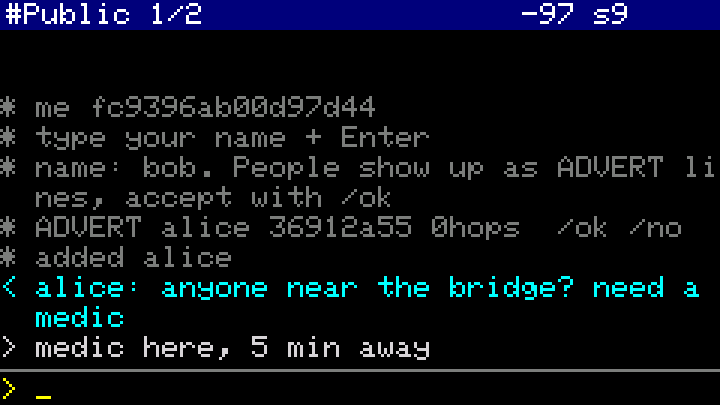
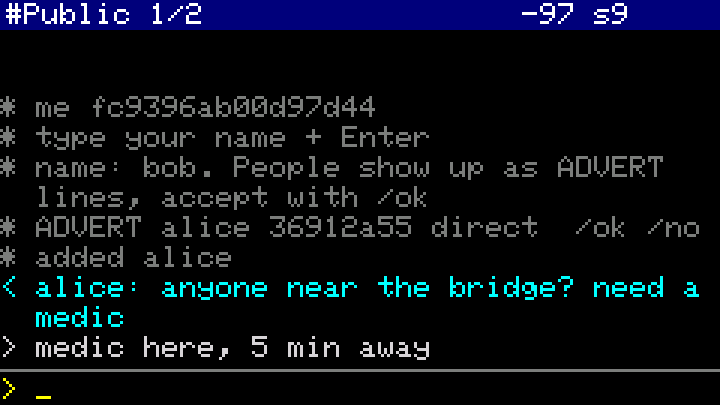
README and screen review fixes
- header/advert routes read "direct" / "N hops" (was "0h 50s", easy to read as a duration)
- word-wrap at spaces; only whole messages at the top of the chat view
- voice fails instead of flooding when a route is lost mid-message
- sim: RSSI reads 0 until a packet is heard, like the radio
- README: drop the Meshtastic section; range now led by repeaters and network
  state; status note (not yet run on hardware); fix SF10 airtime (4x) and probe wording; /help

diff --git a/src/main.cpp b/src/main.cpp
@@ -101,6 +101,10 @@ uint32_t idOf(const ContactInfo &c) {
   return v;
 }
 bool isChan(uint32_t id) { return (id & CHAN) == CHAN; }
+String hops(uint8_t path_len) {
+  int n = path_len & 63;
+  return n == 0 ? String("direct") : String(n) + (n == 1 ? " hop" : " hops");
+}
 String hex(const uint8_t *b, int n) {
   String s;
   char h[3];
@@ -189,7 +193,7 @@ struct Node : BaseChatMesh {
       if (p.id.matches(c.id)) return;
     if (pending.size() >= 16) pending.erase(pending.begin());
     pending.push_back(c);
-    sys("ADVERT " + String(c.name) + " " + hex(c.id.pub_key, 4) + " " + String(path_len & 63) + "hops  /ok /no");
+    sys("ADVERT " + String(c.name) + " " + hex(c.id.pub_key, 4) + " " + hops(path_len) + "  /ok /no");
   }
 
   void onContactPathUpdated(const ContactInfo &) override { contactsDirty = true; }
@@ -403,6 +407,10 @@ void sendText(const String &s) {
 }
 
 void pumpVoice(Out &o, ContactInfo &c) {
+  if (c.out_path_len == OUT_PATH_UNKNOWN) {  // route lost: fail rather than flood the mesh with voice
+    o.next = 32;
+    return;
+  }
   if (o.next >= 32 || node.outbound()) return;  // round sent, or pace: one request queued at a time
   uint32_t rest = o.need >> o.next << o.next;
   if (!rest) {
@@ -683,10 +691,9 @@ void draw() {
   else {
     auto all = convs();
     int idx = std::find(all.begin(), all.end(), cur) - all.begin();
-    cv.printf("%.12s %d/%d", convName(cur).c_str(), idx + 1, (int)all.size());
+    cv.printf("%.10s %d/%d", convName(cur).c_str(), idx + 1, (int)all.size());
     if (ContactInfo *c = node.byId(cur)) {
-      if (c->out_path_len == OUT_PATH_UNKNOWN) cv.print(" flood");
-      else cv.printf(" %dh", c->out_path_len & 63);
+      cv.print(c->out_path_len == OUT_PATH_UNKNOWN ? " flood" : (" " + hops(c->out_path_len)).c_str());
       if (heard.count(cur)) {
         uint32_t s = (millis() - heard[cur]) / 1000;
         if (s < 120) cv.printf(" %lus", (unsigned long)s);
@@ -715,8 +722,15 @@ void draw() {
                                     : WHITE;
     String pre = !l.peer ? "* " : l.state == '<' ? "< " : "> ";
     std::vector<String> chunks;
-    for (size_t p = 0; p == 0 || p < l.text.length(); p += COLS)
-      chunks.push_back((p ? "  " : pre) + l.text.substring(p, p + COLS));
+    size_t p = 0, len = l.text.length();
+    do {  // wrap at a space when there is one
+      size_t e = std::min(len, p + COLS);
+      int sp = e < len ? l.text.lastIndexOf(' ', e) : -1;
+      if (sp > (int)p) e = sp + 1;
+      chunks.push_back((p ? "  " : pre) + l.text.substring(p, e));
+      p = e;
+    } while (p < len);
+    if (!rows.empty() && rows.size() + chunks.size() > ROWS) break;  // only whole messages at the top
     for (int j = (int)chunks.size() - 1; j >= 0 && (int)rows.size() < ROWS; j--) rows.push_back({col, chunks[j]});
   }
   for (int i = 0; i < (int)rows.size(); i++) {

diff --git a/sim/sim.cpp b/sim/sim.cpp
@@ -182,6 +182,7 @@ struct {
 } air;
 struct SimRadio : mesh::Radio {
   int me;
+  float rssi = 0;  // nothing heard yet
   explicit SimRadio(int i) : me(i) {}
   int recvRaw(uint8_t *b, int sz) override {
     auto &q = air.q[me];
@@ -189,6 +190,7 @@ struct SimRadio : mesh::Radio {
     int n = std::min<int>(sz, q.front().size());
     memcpy(b, q.front().data(), n);
     q.erase(q.begin());
+    rssi = -97;
     return n;
   }
   uint32_t getEstAirtimeFor(int len) override { return 60 + len * 5; }  // roughly SF8 / 62.5 kHz
@@ -200,7 +202,7 @@ struct SimRadio : mesh::Radio {
   bool isSendComplete() override { return true; }
   void onSendFinished() override {}
   bool isInRecvMode() const override { return true; }
-  float getLastRSSI() const override { return -97; }
+  float getLastRSSI() const override { return rssi; }
   float getLastSNR() const override { return 8; }
 };
 struct Module {

diff --git a/sim/Arduino.h b/sim/Arduino.h
@@ -48,6 +48,7 @@ struct String : std::string {
   void remove(size_t i) { erase(i); }
   int indexOf(char c, size_t from = 0) const { return find(c, from) == npos ? -1 : (int)find(c, from); }
   bool startsWith(const String &p) const { return rfind(p, 0) == 0; }
+  int lastIndexOf(char c, size_t from) const { return rfind(c, from) == npos ? -1 : (int)rfind(c, from); }
   long toInt() const { return atol(c_str()); }
   void trim() {
     erase(0, find_first_not_of(' '));

diff --git a/README.md b/README.md
@@ -4,6 +4,9 @@ A standalone **[MeshCore](https://github.com/meshcore-dev/MeshCore)** client for
 + Cap LoRa-1262** (SX1262, ATGM336H GPS). It chats with any MeshCore user and needs no phone, and it adds
 push-to-talk voice messages between cardcore devices.
 
+> **Status:** it builds and passes the end-to-end simulation against the real MeshCore library, but it
+> hasn't been run on a physical Cardputer yet. Test it before you rely on it.
+
 <p>
 <img src="docs/chat.png" width="400" alt="Chat with alice: received messages in cyan, delivered in green, a voice message each way, a shared GPS location, one still sending in white">
 <img src="docs/channel.png" width="400" alt="The Public channel: alice asks for a medic, bob answers">
@@ -21,24 +24,11 @@ pio run -t upload        # hold G0 while plugging in if upload doesn't start
 Or, without building: download `cardcore-<version>.bin` from [Releases](https://github.com/vdo/cardcore/releases) and flash it at offset 0x0
 with `esptool.py --chip esp32s3 write_flash 0x0 cardcore-<version>.bin` or the browser-based [ESP flasher](https://espressif.github.io/esptool-js/).
 
-## Why MeshCore, not Meshtastic?
-The goal is a **long-range encrypted text walkie-talkie** that keeps working when everything else is down.
-
-- **No phone, no infrastructure.** cardcore is the whole client: keyboard, screen and GPS. It needs no
-  app, account, internet, gateway or MQTT.
-- **Routes instead of flooding.** MeshCore floods a message only to discover the path, then sends
-  straight along it. Client devices don't repeat; dedicated repeaters do. That's much less airtime
-  than flooding every message.
-- **Quiet.** There are no telemetry, position or node-info broadcasts. cardcore announces itself only
-  at boot, when you accept someone and when you type `/advert`.
-- **Existing networks.** It uses MeshCore repeaters and room servers already on hills and rooftops, and
-  talks to people using the MeshCore phone apps.
-
 ## First boot
 <img src="docs/setup.png" width="360" align="right" alt="First boot: typing the name">
 
 1. Type your name and press Enter. Your device sends an advert so others can find you.
-2. People nearby show up as `ADVERT name 1a2b3c4d 1hops  /ok /no`. `/ok` adds the newest one, and
+2. People nearby show up as `ADVERT name 1a2b3c4d 1 hop  /ok /no`. `/ok` adds the newest one, and
    `/add name` adds a specific one. Check keys in person: `/fp` shows yours and the contact's.
 3. Press Tab to reach the contact, type and press Enter. You're in the **#Public** channel from the start.
 
@@ -57,10 +47,11 @@ The goal is a **long-range encrypted text walkie-talkie** that keeps working whe
 | tap **G0** | replay the latest voice message in this chat; tap again to stop |
 | `/voices` `/play n` | list saved voice messages in this chat, play #n |
 | `/del` `/name x` | delete the current contact; change your name |
+| `/help` | list the commands |
 
 Message colours: cyan = received, white = sending, green = delivered (ACKed), red = failed after
 3 tries (the last try floods), grey = sent to a channel (channels have no ACKs).
-The header shows the chat, its route (`flood` = no route known yet, `2h` = direct path over 2 hops), when
+The header shows the chat, its route (`direct`, `2 hops`, or `flood` when no route is known yet), when
 the contact was last heard, `ADV` when adverts are waiting, the RSSI of the last packet and the GPS satellite count.
 
 The screen sleeps after 30 s. The first key press only wakes it, and incoming messages or adverts wake it too.
@@ -74,10 +65,10 @@ other MeshCore apps ignore it.
 - **Codec2 at 1300 bps**, cut into 0.84 s chunks, one MeshCore request each. The chunks are end-to-end
   encrypted with the contact's MeshCore key, with a ChaCha20 layer inside: MeshCore's AES-ECB would
   otherwise show repeated frames such as silence. The receiver reports which chunks arrived, and the sender
-  resends only the missing ones. The first chunk goes alone as a probe, so a contact who can't play voice
-  costs just one packet.
+  resends only the missing ones. The first chunk goes alone as a probe, so for a contact who can't play
+  voice only that one chunk is sent (with up to 3 retries).
 - **Needs a known route.** Send a text first so MeshCore learns the path from its ACK. Voice never floods
-  the mesh.
+  the mesh: if the route is lost mid-message, the message fails instead.
 - **Files** are saved as `/cardcore/NNNN_<peer>_<i|o>.c2`, standard Codec2 files. On a PC:
   `c2dec 1300 0007_….c2 out.raw && play -t raw -r 8000 -e signed -b 16 -c 1 out.raw`.
 - **Airtime:** each chunk is about 1.06 s on air for 0.84 s of speech, so a 10 s message takes about
@@ -117,6 +108,19 @@ How these were worked out:
 Li-ion loses a lot of capacity below 0 °C. Keep the bank inside your jacket.
 
 ### Range
+With MeshCore, **how far you reach depends on the network around you** more than on your radio:
+- **Repeaters:** are there any within range of you and of the person you're writing to?
+- **Load:** how busy is the mesh right now?
+- **Routes:** which paths has MeshCore already learned?
+
+Two people on opposite sides of a city can talk through a rooftop repeater. The same two people with no
+repeater nearby are limited to one hop between their own devices.
+
+The header shows the route to each contact: `direct`, `3 hops`, or `flood` while none is known yet.
+
+Everything below is about **one hop**, from your Cardputer to the next device, whether that's the
+other person or the nearest repeater.
+
 Link budget: +22 dBm out, about −130 dBm sensitivity at SF8/62.5 kHz, and 0–3 dBi antennas give
 **~152–158 dB** of allowed path loss for each hop.
 
@@ -135,14 +139,18 @@ at 1.5 m is ~10 km; with one antenna at 30 m it's ~28 km.
 
 Getting more range:
 - **Go higher.** Getting the antenna from 1.5 m up to 10 m does more than any setting.
-- **Use repeaters.** Any MeshCore repeater in range relays for you, along learned paths of up to 64 hops.
+- **Reach a repeater.** Any MeshCore repeater in range relays for you, along learned paths of up to 64 hops.
+  If your messages only ever go out as `flood` and end red, probably no repeater hears you: move higher
+  or outdoors.
+- **Busy mesh?** Packets collide and MeshCore's airtime budget holds them back. Short texts get through
+  far more reliably than voice, so keep voice for when it's quiet or the route is short.
 - **No repeaters?** In a disaster, `/repeat on` on every Cardputer makes them relay for each other.
   Better still, put a spare Cardputer with `/repeat on`, or a cheap MeshCore repeater board, on a rooftop
   or hill with a power bank. With its screen asleep a Cardputer lasts about a week.
 - **Mind the antenna.** Keep it vertical, away from your body and metal. A 5–6 dBi collinear antenna on
   a mast at the repeater is the next upgrade.
 - **Change the settings** (every node must match): `/radio 869.618 62.5 10 5` gains about 5 dB (≈1.7×
-  range in open terrain) for about 2.5× the airtime. It also takes you off the public mesh.
+  range in open terrain) for 4× the airtime. It also takes you off the public mesh.
 
 Time on air at SF8/62.5 kHz: ACK 0.16 s, 30-character message 0.4 s, voice chunk 1.06 s. MeshCore
 spaces out transmissions with its own airtime budget.
@@ -164,7 +172,7 @@ licence-free sub-bands are usable for portable peer-to-peer radios:
 cardcore uses MeshCore's EU/UK default, **869.618 MHz / 62.5 kHz / SF8**. That puts it on the public mesh
 and its repeaters, in the upper part of the high-power sub-band and clear of the LoRaWAN downlink.
 
-A group that wants its own channel can switch every device to `/radio 869.435 62.5 9 5`, the quiet
+A group that wants its own frequency can switch every device to `/radio 869.435 62.5 9 5`, the quiet
 lower edge below the LoRaWAN downlink. You lose the public repeaters, though. Interference is local: a
 nearby gateway or alarm system can make another slot quieter where you are.
 Limits per ERC Rec 70-03 Annex 1 and EU Decision 2018/1538. Check your national rules.
